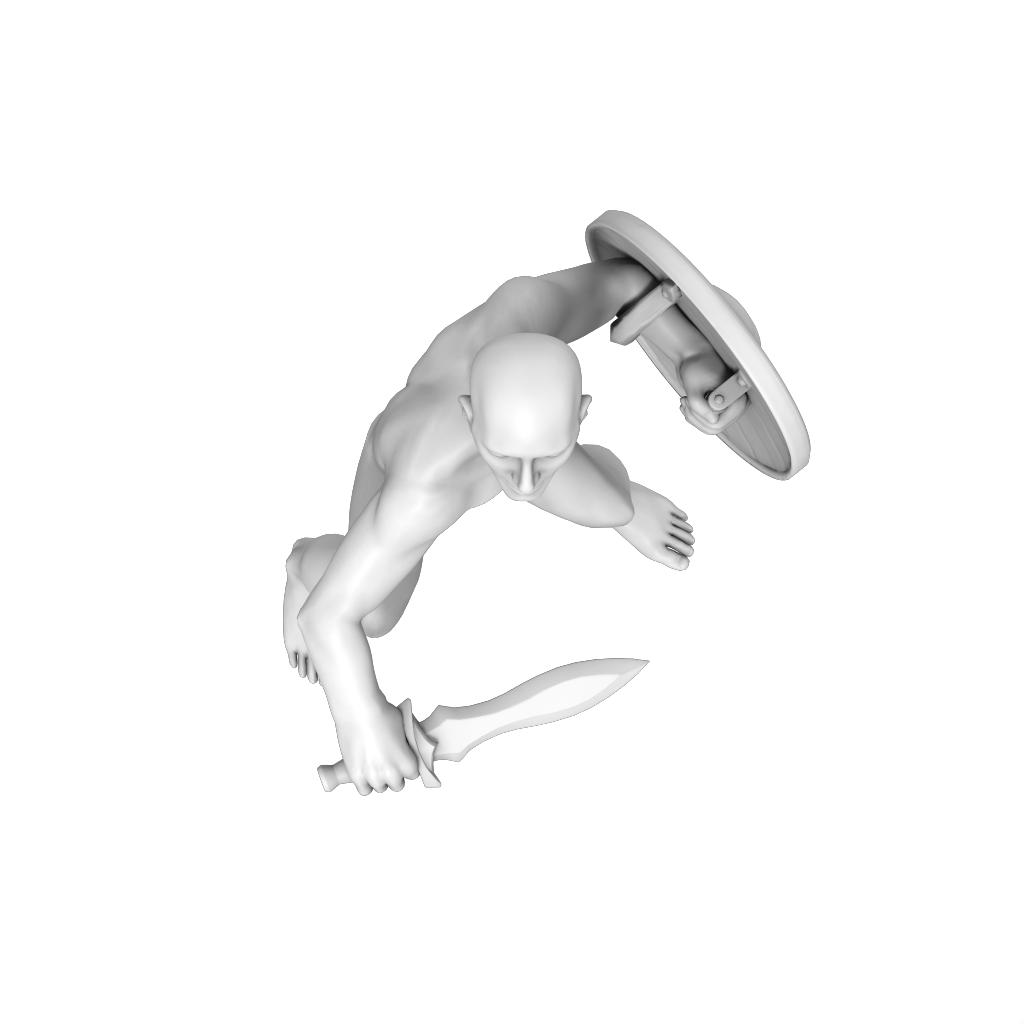
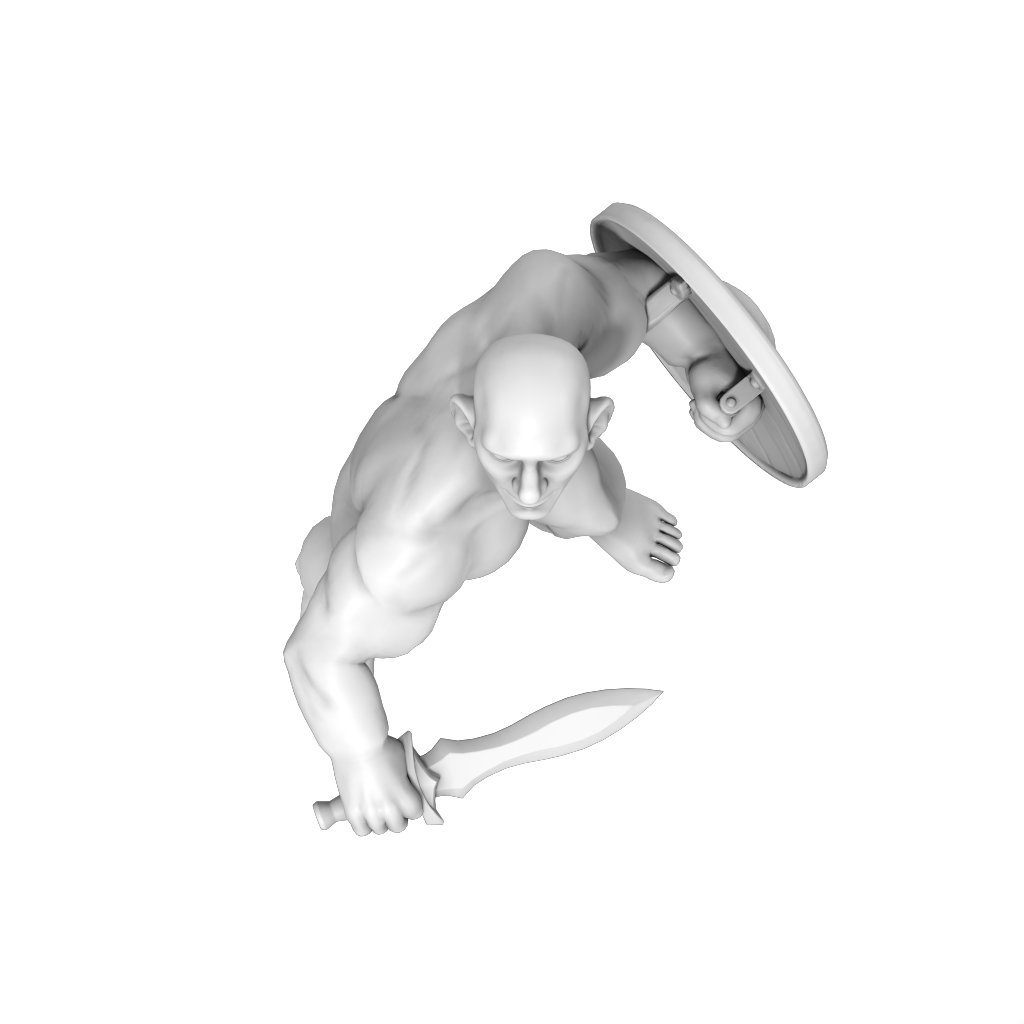
Head test: the lifting sentence lands 4 of 4 on bowed and raised captures; gear crops as object refs; three raised-head captures filed

Changed region(s): [[0.25, 0.1875, 0.8125, 0.8125], [0.375, 0.3438, 0.4062, 0.4062], [0.4062, 0.3125, 0.4375, 0.3438]]

diff --git a/.claude/skills/illustration-builder/SKILL.md b/.claude/skills/illustration-builder/SKILL.md
@@ -342,7 +342,8 @@ prompt can simply say the character's name and be understood:
 - **Object references** hold one thing to reproduce: a crop of a weapon head, a shield face, a
   scarf, an orb (Flash up to 10, Pro up to 6). Label each and say where it goes ("the axe in the
   fist at the lower left is Image 3"). Gear that was only described drifted; gear that is shown
-  is copied (2026-10-16).
+  is copied (2026-10-16): Kartor's axe head and shield and Cecil's lute and scarf came through
+  from crops with the head and pose untouched.
 - **Style references** hold the house look. The docs say Pro only, up to 3, but they work on
   Flash in practice (spike 2026-09-19; the whole 2026-09-19 batch was Flash and held the look).
   Attach the standing style shelf (from `art/SHELF.md`) on every portrait and illustration
@@ -539,7 +540,8 @@ dropped on 2026-09-19; re-earn phrasing lessons on the new backend before writin
    only names them. For a new NPC, describe the face in full instead.
    `<Name> is Image 2. <He|She> is <race, sex, age, build, skin, hair, eyes; horn shape if
    any>, <anything the mannequin lacks: ONE tail curving out behind to the lower left only,
-   wings folded, a hood>. <He|She> wears <clothing and armour, materials and colours>. Replace
+   wings folded, a hood>. <He|She> wears <clothing and armour, materials and colours, always
+   the footwear>. Replace
    the entire <weapon> in <his|her> fist at the <lower left>, keeping only the fist's grip and
    the line it points along: none of the old <blade, crossguard, pommel> remain. The new weapon
    is <each part, grip to tip>. Replace the entire shield, keeping its exact position and angle
@@ -565,16 +567,20 @@ dropped on 2026-09-19; re-earn phrasing lessons on the new backend before writin
      left grey. "Keep the mannequin's exact pose" and the softer guide sentence bought the same
      pose side by side in the first real run; the tool's line is the firmer of the two, and the
      instruction no longer says any of it.
-   - **The head angle (2026-10-16).** In the first real run heads went down into the chest or up
-     at the camera. Both causes are in the pixels: the captures' own heads bow toward the ground
-     (the stand and combat human male both look at their feet), and a frontal portrait crop
-     bound "keep this exact face" pulled the head up to the camera. So the head is never bound
-     to the mannequin's. The tool's mannequin keep line describes it (held level, looking ahead
-     along the ground a few paces in front, crown and brow largest, eyes and nose showing, chin
-     mostly hidden), the character preamble binds identity only, and a per-PC token-head anchor
-     (the approved face rendered at the token camera, approved once, on the campaign shelf) goes
-     in as `character` instead of the frontal portrait crop. The owner's re-capture with raised
-     heads is the lock beneath all three. Compare every head to the target in the flaw pass.
+   - **The head angle is solved by lifting it (2026-10-16, fourteen renders).** In the first
+     real run heads went down into the chest or up at the camera: the captures' own heads bow
+     toward the ground, and a frontal portrait crop bound "keep this exact face" pulled the head
+     up to the camera. An absolute description in the tool ("held level, looking ahead") left
+     all four PCs bowed. What landed four of four, twice, on the bowed captures and on the
+     owner's raised-head re-exports alike: a relative sentence that lifts the head from the
+     mannequin's bowed position to a stated target (brow, both open eyes and nose showing below
+     the top of the head, chin hidden, face tilted only a little up, gaze three paces ahead).
+     The tool's `source: "mannequin"` lead sentence now carries it, so the instruction says
+     nothing about the head; the character preamble binds identity only. A token-head anchor
+     rendered from the portrait is not needed for this, and a frontal token head attached as a
+     `pose` reference pulls the face frontal: never attach one. Compare every head to the target
+     in the flaw pass anyway, and name the footwear: the mannequin is barefoot, and a figure
+     described without boots came back barefoot.
    - **The dwarf `dead` capture loses the dwarf build**: twice it came back lean, older and grey,
      with and without the crop. One flaw pass naming build, age and hair fixed it both times;
      expect it.

diff --git a/notes/mannequin-tokens/PLAN.md b/notes/mannequin-tokens/PLAN.md
@@ -283,3 +283,23 @@ looked straight down with his eyes shut, Lysandra up at the camera. The approved
 head attached as a `pose` reference pulled both retries frontal: that token is itself nearly
 frontal, so it is no angle reference. The reference to use is a grey head at the target pitch (the
 owner's re-capture), which has no face to copy and only carries the angle.
+
+**The head test (2026-10-16, after the restart; fourteen token renders, $0.59; on the owner's
+Desktop in `imagegentests/head-test`, with a contact sheet).** All on `source: "mannequin"`, flash,
+the head-to-waist crop as `character`. A: the tool's absolute head line ("held level, looking
+ahead") left all four PCs bowed like the capture (Cecil, Tychon, Kartor) or up at the camera
+(Lysandra). B: one relative sentence at the top of the instruction, "the mannequin's head is bowed
+toward the ground; lift the head up from that position until he looks ahead along the ground
+three paces in front, face tilted only a little up, so that the brow, both open eyes and the nose
+show clearly below the top of the head while the chin stays hidden", landed four of four. D: B plus
+gear crops as `object` references (Kartor's axe head and shield, Cecil's lute and scarf) came
+through with the head and pose untouched. E: B on the owner's four raised-head re-exports (the
+highest HeroForge allows without looking awkward) landed four of four again, the faces a touch more
+forward: the raised heads help and are not required. The sentence now leads the tool's mannequin
+prompt (`MANNEQUIN_EDIT_SOURCE`), to be confirmed on the first render after the next restart.
+Three of the re-exports are filed over their captures (`human-male-stand-open`,
+`human-male-stand-empty`, `human-male-combat-dagger-shield`); the female combat dagger-and-open-hand
+export has no slot in the grid and waits on the owner's name for it. Side lessons: name the
+footwear (the mannequin is barefoot and Tychon came back barefoot); thinking at the default medium
+runs 600 to 1600 tokens a token render, under a cent, and is now in the estimate. Not yet tested:
+`thinking: "high"`.

diff --git a/docs/log/2026-10.md b/docs/log/2026-10.md
@@ -64,3 +64,9 @@ heading per day, oldest first. Release detail is on the GitHub release notes.
   itself; both render tools take `thinking` (Nano Banana 2.1: minimal, medium, high) and report
   `thinkingTokens`, billed at the text rate and folded into the estimate. Next: per-PC token-head
   anchors, gear crops, and a twelve-render head test once the server is restarted.
+- The head test, after the restart (fourteen renders): an absolute head line left every head bowed
+  like the capture; a relative sentence lifting the head from the bowed position to a stated target
+  landed four of four, on the bowed captures and on the owner's raised-head re-exports alike, so it
+  now leads the tool's mannequin prompt. Gear crops as `object` references came through clean. Three
+  raised-head captures are filed over their old ones. Token-head anchors from the portrait were tried
+  first and are not needed; a frontal token head as a `pose` reference pulls the face frontal.
